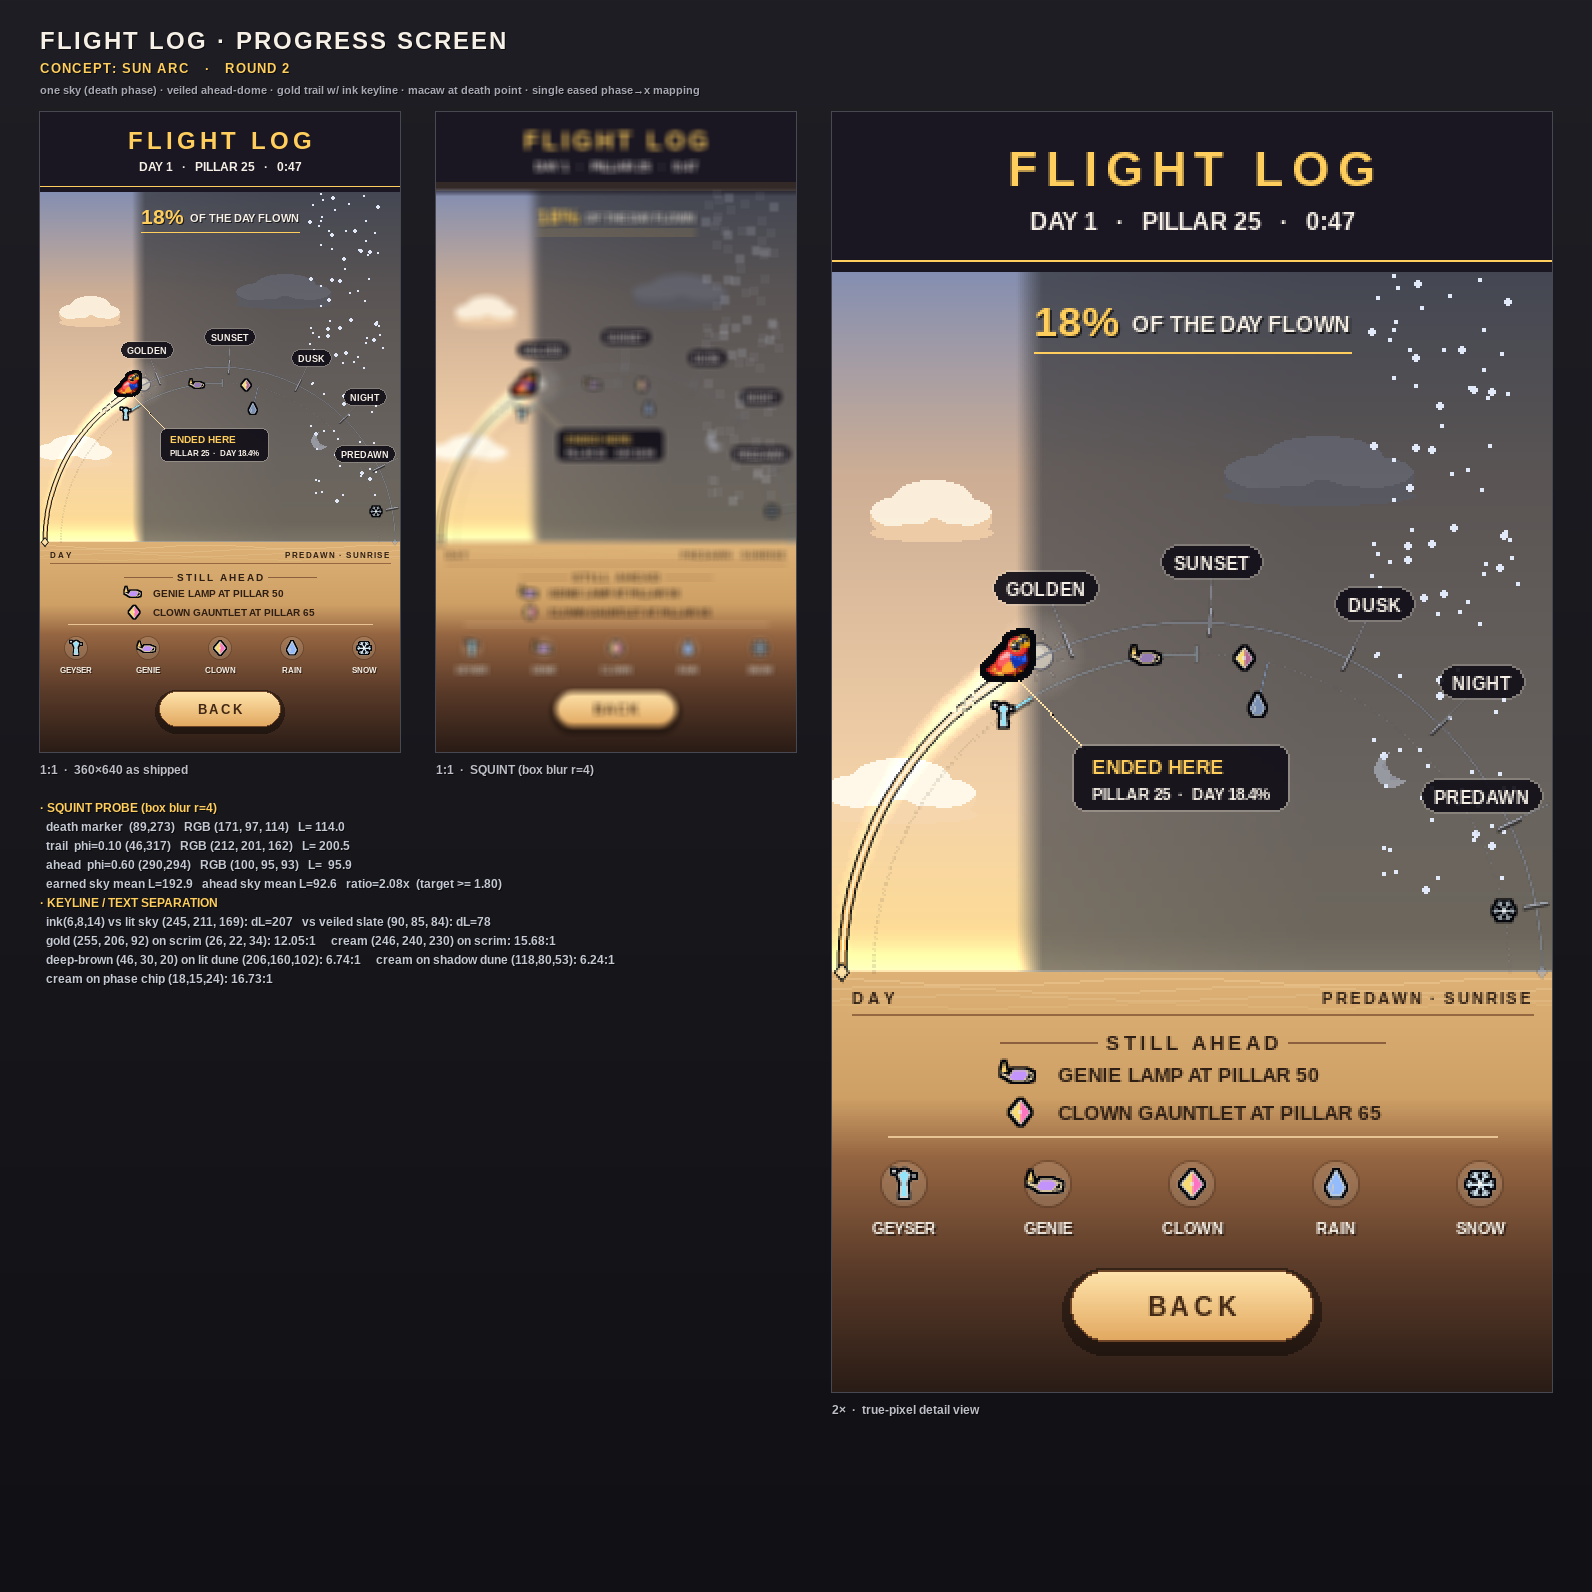
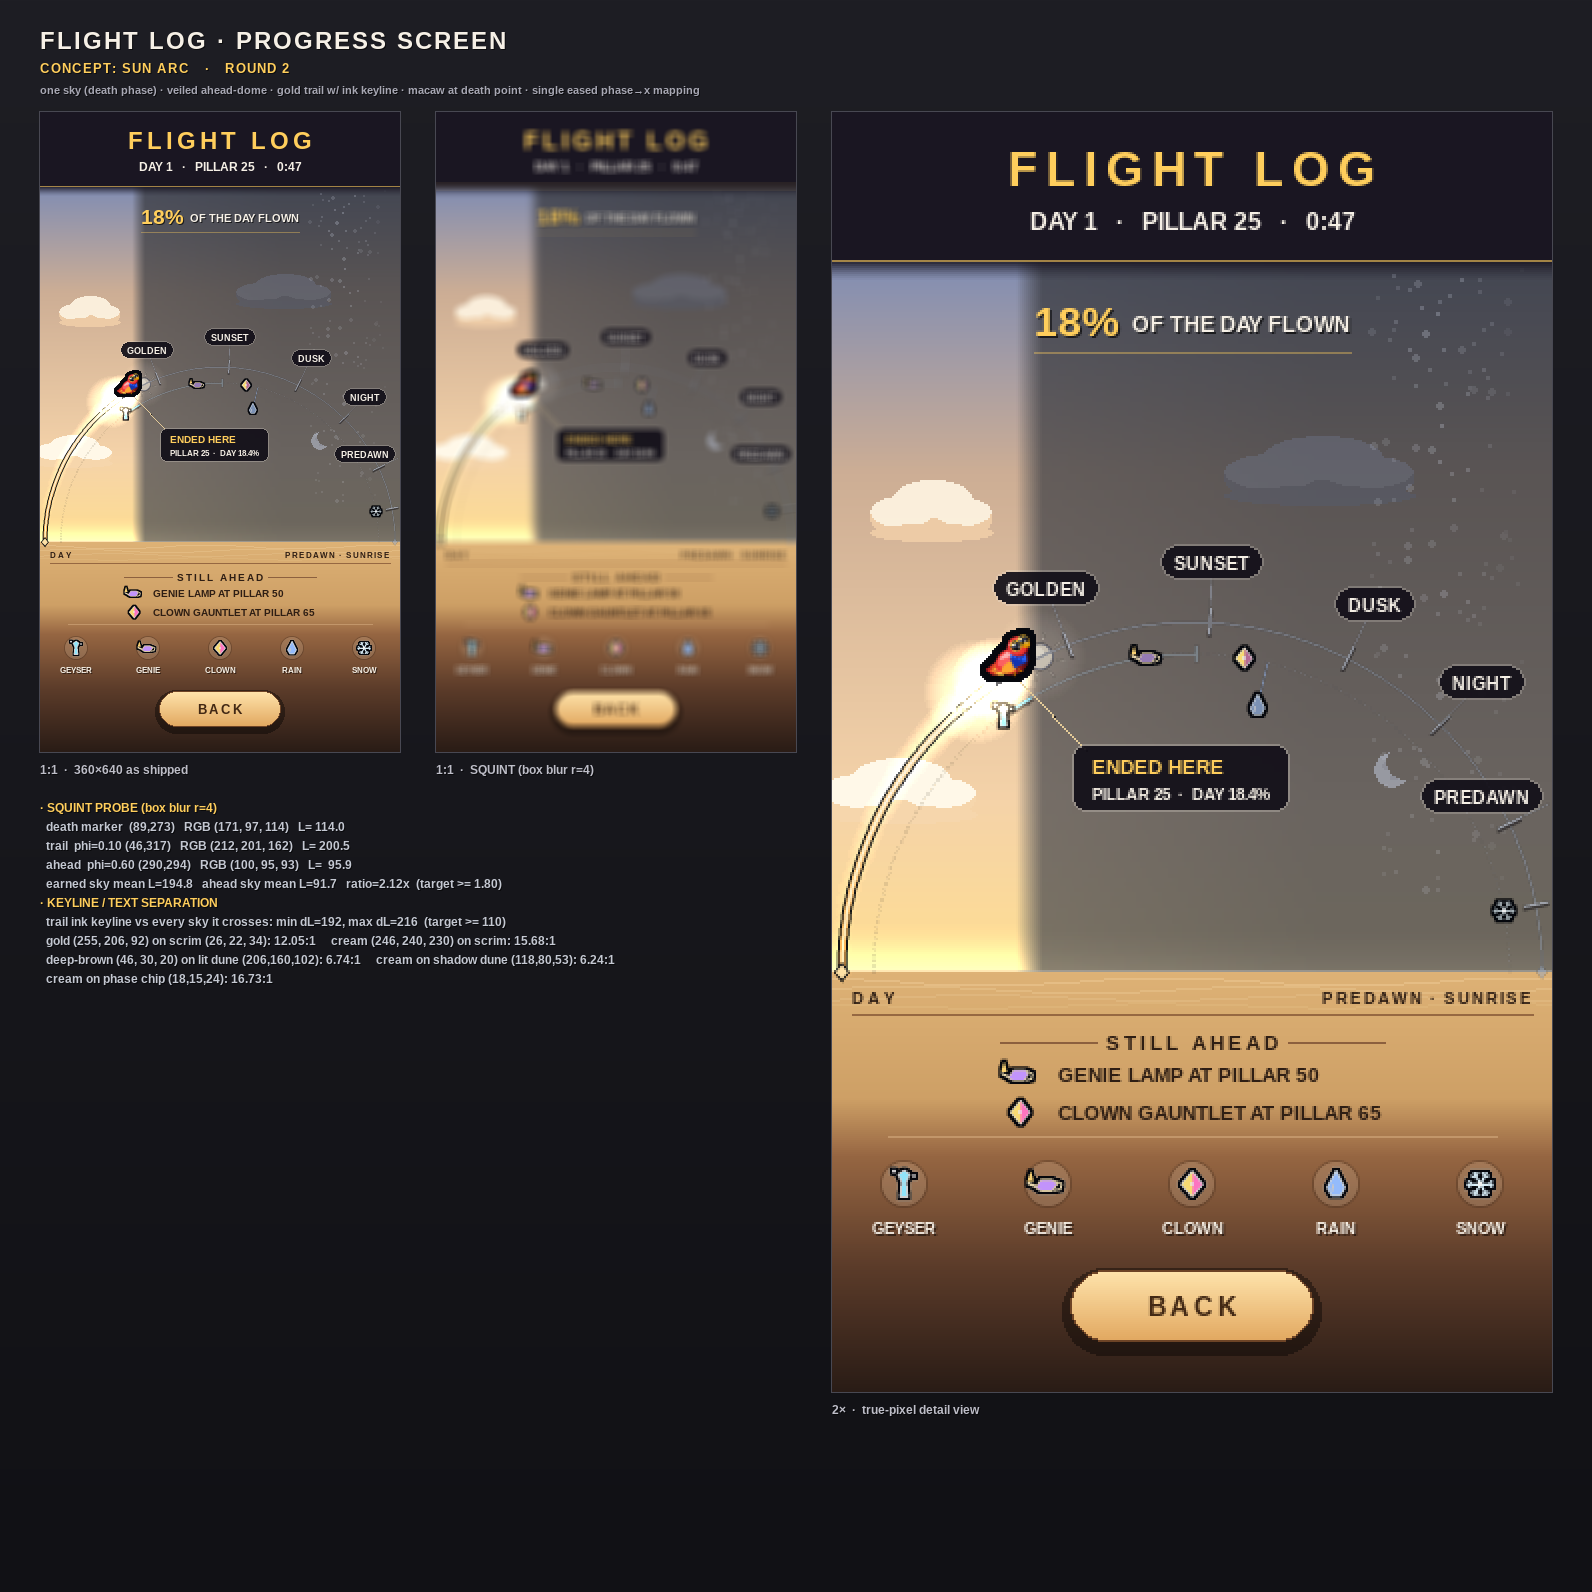
Flight Log runway_view, sun_arc — round 2 final renders updated

diff --git a/tools/render_flight_log_progress_sun_arc.py b/tools/render_flight_log_progress_sun_arc.py
@@ -267,17 +267,22 @@ def add_ink(src, color=(6, 8, 14, 240), pad=2):
 
 # ── sky ──────────────────────────────────────────────────────────────────────
 
+SKY_STOPS = [
+    (0.00, DEATH_PALETTE["sky_top"]),
+    (0.42, DEATH_PALETTE["sky_mid"]),
+    (0.80, DEATH_PALETTE["sky_bot"]),
+    (1.00, DEATH_PALETTE["horizon"]),
+]
+
+
+def sky_at(x, y):
+    return veil(lerp_color_multi(SKY_STOPS, y / (HORIZON_Y - 1)), veil_strength(x))
+
+
 def draw_dome(surf):
     """One sky — the death-phase sky — veiled column by column past the point
     the run ended."""
-    pal = DEATH_PALETTE
-    stops = [
-        (0.00, pal["sky_top"]),
-        (0.42, pal["sky_mid"]),
-        (0.80, pal["sky_bot"]),
-        (1.00, pal["horizon"]),
-    ]
-    column = [lerp_color_multi(stops, y / (HORIZON_Y - 1)) for y in range(HORIZON_Y)]
+    column = [lerp_color_multi(SKY_STOPS, y / (HORIZON_Y - 1)) for y in range(HORIZON_Y)]
     for x in range(W):
         k = veil_strength(x)
         if k <= 0.0:
@@ -744,8 +749,8 @@ def render_screen():
     text(surf, pct, 21, midleft=(x0, 104), color=GOLD, shadow=(0, 0, 0, 170))
     text(surf, "  OF THE DAY FLOWN", 11, midleft=(x0 + w_pct, 106), color=CREAM,
          shadow=(0, 0, 0, 170))
-    pygame.draw.line(surf, (255, 206, 92, 70), (int(x0), 120),
-                     (int(x0 + w_pct + w_tail), 120), 1)
+    alpha_line(surf, (255, 206, 92, 96), (int(x0), 120),
+               (int(x0 + w_pct + w_tail), 120), 1)
 
     # ── phase chips: only the upper span of the arc, outside it ──
     def phase_chip(label, frac):
@@ -762,8 +767,8 @@ def render_screen():
             phase_chip("GOLDEN" if name == "GOLDEN HOUR" else name, frac)
 
     # ── death callout, hung off the macaw into the open dome interior ──
-    pygame.draw.line(surf, (10, 8, 14, 190), (int(bx) + 5, int(by) + 12), (126, 318), 1)
-    pygame.draw.line(surf, (255, 226, 168, 210), (int(bx) + 4, int(by) + 11), (125, 317), 1)
+    alpha_line(surf, (10, 8, 14, 200), (int(bx) + 6, int(by) + 13), (127, 319), 1)
+    alpha_line(surf, (255, 226, 168, 225), (int(bx) + 5, int(by) + 12), (126, 318), 1)
     f9, f8 = font(10), font(8)
     cw = max(f9.size("ENDED HERE")[0], f8.size(f"PILLAR {DEATH_PILLAR}  ·  {PHASE_LABEL} 18.4%")[0]) + 20
     cr = pygame.Rect(0, 0, cw, 34)
@@ -790,7 +795,7 @@ def render_screen():
     for i, (_fn, col, t) in enumerate(rows):
         text(surf, t, 10, midleft=(tx, 481 + i * 19), color=DEEP_BROWN, shadow=None)
 
-    pygame.draw.line(surf, (232, 196, 148, 60), (28, 512), (332, 512), 1)
+    alpha_line(surf, (246, 214, 168, 80), (28, 512), (332, 512), 1)
     for i, (_fn, name, _c) in enumerate(GLYPHS):
         text(surf, name, 8, center=(36 + i * 72, 557), color=CREAM,
              shadow=(20, 12, 8, 170))
@@ -940,7 +945,11 @@ def main():
     earned = region_mean_lum(blur, 6, int(DEATH_X) - 4, 80, HORIZON_Y - 4)
     aheadm = region_mean_lum(blur, int(DEATH_X) + 8, W - 6, 80, HORIZON_Y - 4)
 
-    sky_at_trail = DEATH_PALETTE["sky_bot"]
+    # Worst-case keyline separation: the darkest sky the flown run crosses.
+    seps = []
+    for i in range(41):
+        tx_, ty_ = arc_pos(DEATH_PHASE * i / 40)
+        seps.append(abs(lum(sky_at(min(W - 1, max(0, int(tx_))), int(ty_))) - lum(INK)))
     notes = [
         "· SQUINT PROBE (box blur r=4)",
         f"  death marker  ({int(bird_xy[0])},{int(bird_xy[1])})   RGB {p_death}   L={lum(p_death):6.1f}",
@@ -948,8 +957,7 @@ def main():
         f"  ahead  phi=0.60 ({int(x60)},{int(y60)})   RGB {p_ahead}   L={lum(p_ahead):6.1f}",
         f"  earned sky mean L={earned:.1f}   ahead sky mean L={aheadm:.1f}   ratio={earned / aheadm:.2f}x  (target >= 1.80)",
         "· KEYLINE / TEXT SEPARATION",
-        f"  ink(6,8,14) vs lit sky {sky_at_trail}: dL={lum(sky_at_trail) - lum(INK):.0f}   "
-        f"vs veiled slate {veil(DEATH_PALETTE['sky_mid'], 1.0)}: dL={lum(veil(DEATH_PALETTE['sky_mid'], 1.0)) - lum(INK):.0f}",
+        f"  trail ink keyline vs every sky it crosses: min dL={min(seps):.0f}, max dL={max(seps):.0f}  (target >= 110)",
         f"  gold {GOLD} on scrim {SCRIM}: {contrast(GOLD, SCRIM):.2f}:1     "
         f"cream {CREAM} on scrim: {contrast(CREAM, SCRIM):.2f}:1",
         f"  deep-brown {DEEP_BROWN} on lit dune (206,160,102): {contrast(DEEP_BROWN, (206, 160, 102)):.2f}:1     "

diff --git a/tools/render_flight_log_progress_runway_view.py b/tools/render_flight_log_progress_runway_view.py
@@ -822,15 +822,24 @@ def g_diamond(lay, cx, cy, u, col):
 
 
 def g_drop(lay, cx, cy, u, col):
+    # Storm reads as FALL, not as a single bead. A lone drop is a pointed blob
+    # that swaps places with the clown diamond at marker size; the slanted
+    # streaks give it a horizontal, directional silhouette instead.
+    for dx, top, bot in ((-0.85, -0.98, -0.30), (0.05, -1.02, -0.42),
+                         (0.95, -0.92, -0.24)):
+        pygame.draw.line(lay, (*col, 250),
+                         (s(cx + dx * u + 0.18 * u), s(cy + top * u)),
+                         (s(cx + dx * u - 0.18 * u), s(cy + bot * u)),
+                         max(1, int(SS * 0.28 * u)))
     pygame.draw.polygon(lay, (*col, 255), [
-        (s(cx), s(cy - 1.15 * u)),
-        (s(cx + 0.60 * u), s(cy + 0.34 * u)),
-        (s(cx - 0.60 * u), s(cy + 0.34 * u))])
-    pygame.draw.circle(lay, (*col, 255), (s(cx), s(cy + 0.30 * u)),
-                       max(1, s(0.61 * u)))
+        (s(cx - 0.05 * u), s(cy - 0.14 * u)),
+        (s(cx + 0.46 * u), s(cy + 0.56 * u)),
+        (s(cx - 0.56 * u), s(cy + 0.56 * u))])
+    pygame.draw.circle(lay, (*col, 255), (s(cx - 0.05 * u), s(cy + 0.52 * u)),
+                       max(1, s(0.46 * u)))
     pygame.draw.circle(lay, (30, 44, 60, 235),
-                       (s(cx - 0.20 * u), s(cy + 0.22 * u)),
-                       max(1, s(0.18 * u)))
+                       (s(cx - 0.22 * u), s(cy + 0.45 * u)),
+                       max(1, s(0.15 * u)))
 
 
 def g_asterism(lay, cx, cy, u, col):
